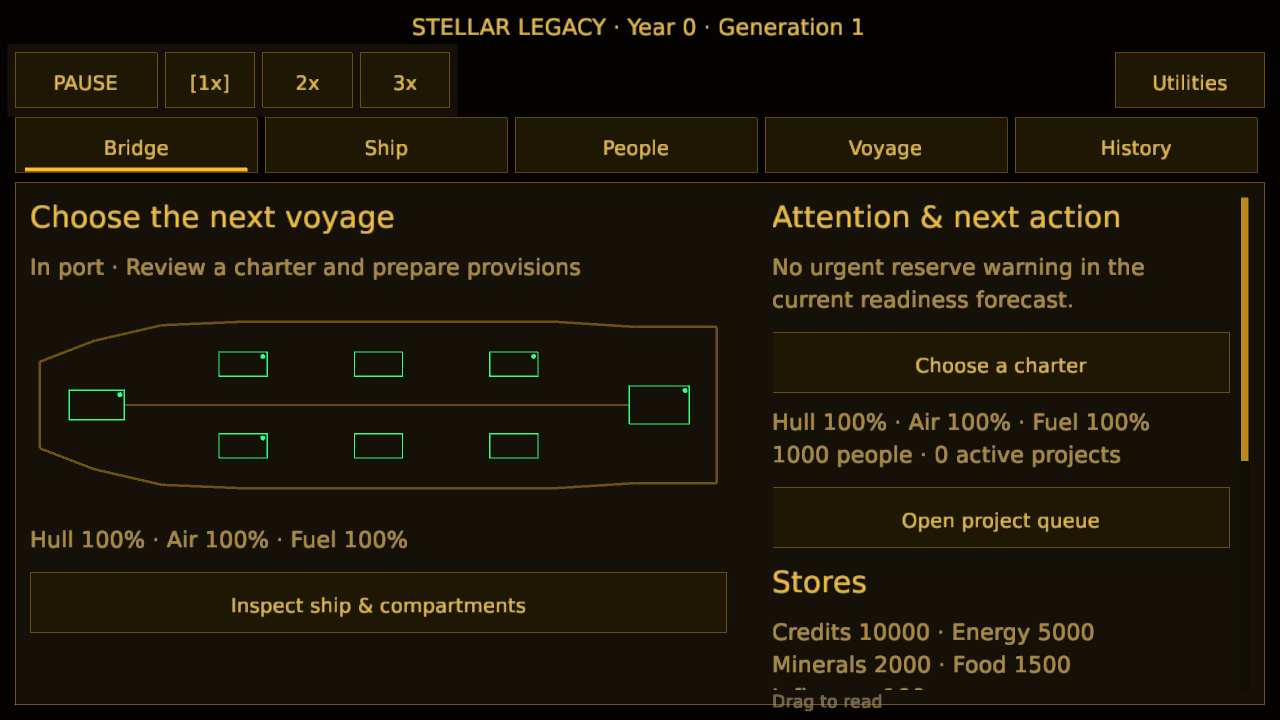
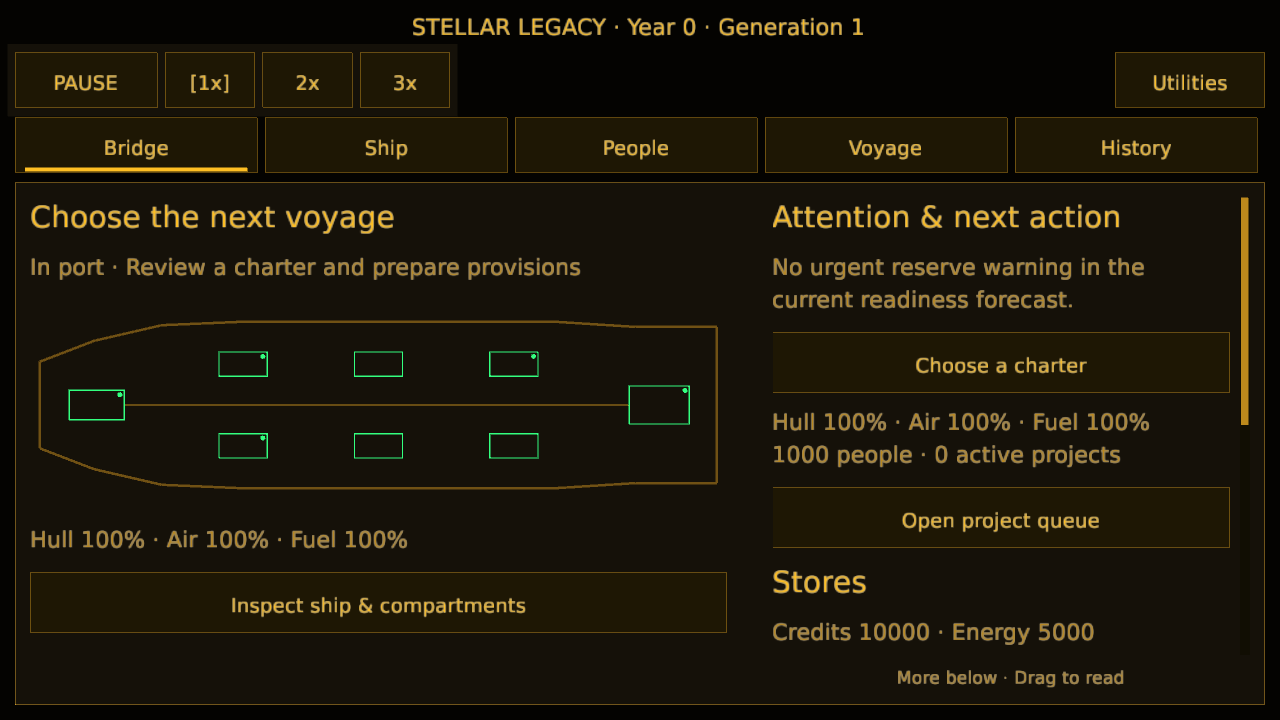
The Custodian gives every report room to breathe (responsive reading layout)
Scrolling reports crowded their final lines against an external reading hint. Reserve an internal footer, distinguish the end of a section, and render complete prose lines. Section button groups now measure their labels and reflow instead of relying on fixed short rows at enlarged text sizes.

Two geometry tests passed, as did the normal publisher and packaged Windows/browser smoke checks. Inspected phone, enlarged-text, end-of-report, and scaled-desktop captures. Enlarged phone navigation still splits destination words; that is the next focused shell improvement.

Changed region(s): [[0.5938, 0.8861, 0.875, 1.0], [0.9688, 0.5806, 1.0, 0.6417]]

diff --git a/src/ui/mobile/form.rs b/src/ui/mobile/form.rs
@@ -1,6 +1,8 @@
 //! Vertical game document: full prose and explicit intents, backed by toolkit scrolling.
 use super::*;
 use macroquad_toolkit::ui::{wrap_text, ScrollArea};
+mod layout;
+use layout::GroupLayout;
 
 enum Item<A> {
     Text(String, bool),
@@ -133,8 +135,12 @@ impl<A> Form<A> {
                         .max(48.0)
                         + 12.0
                 }
-                Item::Sections(items) => items.len().div_ceil(2) as f32 * 60.0,
-                Item::Actions(..) => 60.0,
+                Item::Sections(items) => {
+                    group_layout(items.iter().map(|(label, _)| label.as_str()), width, 2).height()
+                }
+                Item::Actions(items, _) => {
+                    group_layout(items.iter().map(|(label, _)| label.as_str()), width, 3).height()
+                }
                 Item::Portrait(_) => 100.0,
                 Item::Ship | Item::Vessel(_) => 180.0_f32.min(view.h),
                 Item::Art(_) => ((width * 9.0 / 16.0).min(260.0) + 12.0).min(view.h),
@@ -142,6 +148,10 @@ impl<A> Form<A> {
             })
             .collect();
         let total = sizes.iter().sum();
+        // Keep the reading hint inside its own footer instead of painting it
+        // against the last line of the document or outside the owning panel.
+        let outer = view;
+        let view = layout::reading_view(outer, total, text_scale);
         let mut scroll = scroll_cell.get();
         if overlay || !state.overlay_active.get() {
             scroll.update_at(view, total, pointer.position);
@@ -168,7 +178,7 @@ impl<A> Form<A> {
                         let stride = if title { 32.0 } else { 26.0 } * text_scale;
                         for (i, line) in wrap_text(&text, width, size).iter().enumerate() {
                             let y = rect.y + i as f32 * stride;
-                            if y + stride > view.y && y < view.bottom() {
+                            if y >= view.y && y + stride <= view.bottom() {
                                 draw_ui_text_ex(
                                     line,
                                     rect.x,
@@ -202,13 +212,10 @@ impl<A> Form<A> {
                         }
                     }
                     Item::Sections(items) => {
+                        let grid =
+                            group_layout(items.iter().map(|(label, _)| label.as_str()), rect.w, 2);
                         for (i, (label, section)) in items.into_iter().enumerate() {
-                            let r = Rect::new(
-                                rect.x + (i % 2) as f32 * (rect.w + 12.0) / 2.0,
-                                rect.y + (i / 2) as f32 * 60.0,
-                                (rect.w - 12.0) / 2.0,
-                                48.0,
-                            );
+                            let r = grid.cell(rect, i);
                             if nav_button(r, &label, tap) {
                                 *state.mobile_section.borrow_mut() = section;
                             } else if state.mobile_section.borrow().as_str() == section {
@@ -217,11 +224,10 @@ impl<A> Form<A> {
                         }
                     }
                     Item::Actions(items, selected) => {
-                        let count = items.len() as f32;
-                        let width = (rect.w - 12.0 * (count - 1.0)) / count;
+                        let grid =
+                            group_layout(items.iter().map(|(label, _)| label.as_str()), rect.w, 3);
                         for (i, (label, action)) in items.into_iter().enumerate() {
-                            let r =
-                                Rect::new(rect.x + i as f32 * (width + 12.0), rect.y, width, 48.0);
+                            let r = grid.cell(rect, i);
                             if nav_button(r, &label, tap) {
                                 actions.push(action);
                             }
@@ -303,14 +309,41 @@ impl<A> Form<A> {
         );
         scroll_cell.set(scroll);
         if total > view.h {
-            draw_ui_text_ex(
-                "Drag to read",
+            draw_text_centered_in_box_ex(
+                if scroll.offset() + view.h >= total - 1.0 {
+                    "End of section · Drag to go back"
+                } else {
+                    "More below · Drag to read"
+                },
                 view.x,
-                view.bottom() + 14.0,
-                TextStyle::new(14.0, term::faint()).params(),
+                view.bottom() + 4.0,
+                view.w,
+                outer.bottom() - view.bottom() - 4.0,
+                TextStyle::new(14.0, term::dim()),
             );
         }
     }
+}
+
+fn group_layout<'a>(
+    labels: impl Iterator<Item = &'a str>,
+    width: f32,
+    max_columns: usize,
+) -> GroupLayout {
+    let labels: Vec<_> = labels.collect();
+    let widest = labels
+        .iter()
+        .map(|label| measure_text_size(label, TextStyle::new(16.0, term::primary())).width)
+        .fold(0.0, f32::max);
+    let mut grid = GroupLayout::new(width, labels.len(), max_columns, widest);
+    let lines = labels
+        .iter()
+        .map(|label| wrap_text(label, grid.cell_width - 24.0, 16.0).len())
+        .max()
+        .unwrap_or(1);
+    grid.row_height =
+        (lines as f32 * 26.0 * macroquad_toolkit::ui::ui_text_scale() + 20.0).max(48.0);
+    grid
 }
 
 fn draw_vessel(rect: Rect, ship: &ship_schematic::ShipSchematic) {

diff --git a/src/ui/mobile/form/layout.rs b/src/ui/mobile/form/layout.rs
@@ -1,0 +1,54 @@
+//! Geometry for the game's flowing section controls and reading footer.
+use macroquad::prelude::Rect;
+
+pub(super) struct GroupLayout {
+    pub columns: usize,
+    pub count: usize,
+    pub cell_width: f32,
+    pub row_height: f32,
+}
+
+impl GroupLayout {
+    pub fn new(width: f32, count: usize, max_columns: usize, label_width: f32) -> Self {
+        let preferred = (label_width + 24.0).max(80.0);
+        let columns = (((width + 12.0) / (preferred + 12.0)).floor() as usize)
+            .max(1)
+            .min(max_columns.max(1))
+            .min(count.max(1));
+        Self {
+            columns,
+            count,
+            cell_width: (width - 12.0 * (columns - 1) as f32) / columns as f32,
+            row_height: 48.0,
+        }
+    }
+
+    pub fn height(&self) -> f32 {
+        self.count.div_ceil(self.columns) as f32 * (self.row_height + 12.0)
+    }
+
+    pub fn cell(&self, area: Rect, index: usize) -> Rect {
+        Rect::new(
+            area.x + (index % self.columns) as f32 * (self.cell_width + 12.0),
+            area.y + (index / self.columns) as f32 * (self.row_height + 12.0),
+            self.cell_width,
+            self.row_height,
+        )
+    }
+}
+
+pub(super) fn reading_view(area: Rect, content_height: f32, text_scale: f32) -> Rect {
+    if content_height <= area.h {
+        area
+    } else {
+        Rect::new(
+            area.x,
+            area.y,
+            area.w,
+            (area.h - 28.0 * text_scale).max(1.0),
+        )
+    }
+}
+
+#[cfg(test)]
+mod tests;

diff --git a/src/ui/mobile/form/layout/tests.rs b/src/ui/mobile/form/layout/tests.rs
@@ -1,0 +1,35 @@
+use super::*;
+
+#[test]
+fn long_section_labels_reflow_without_losing_targets() {
+    for width in [155.0, 350.0, 720.0] {
+        for label_width in [80.0, 140.0, 210.0] {
+            let grid = GroupLayout::new(width, 4, 2, label_width);
+            let area = Rect::new(12.0, 172.0, width, grid.height());
+            for index in 0..4 {
+                let cell = grid.cell(area, index);
+                assert!(cell.w >= 44.0 && cell.h >= 44.0);
+                assert!(cell.x >= area.x && cell.y >= area.y);
+                assert!(cell.x + cell.w <= area.x + area.w + 0.01);
+                assert!(cell.y + cell.h <= area.y + area.h);
+                for other in 0..index {
+                    assert!(!cell.overlaps(&grid.cell(area, other)));
+                }
+            }
+            if label_width + 24.0 > (width - 12.0) / 2.0 {
+                assert_eq!(grid.columns, 1);
+            }
+        }
+    }
+}
+
+#[test]
+fn reading_footer_reserves_scaled_space_only_for_overflow() {
+    let area = Rect::new(12.0, 172.0, 350.0, 584.0);
+    for scale in [0.75, 1.0, 1.5] {
+        assert_eq!(reading_view(area, 580.0, scale), area);
+        let view = reading_view(area, 900.0, scale);
+        assert_eq!(view.h + 28.0 * scale, area.h);
+        assert_eq!(view.y, area.y);
+    }
+}

diff --git a/src/game/capture_scenes/display.rs b/src/game/capture_scenes/display.rs
@@ -1,6 +1,18 @@
 use crate::settings::{DisplaySettings, Phosphor};
 
 pub(super) fn prepare<'a>(scene: &'a str, display: &mut DisplaySettings) -> &'a str {
+    // Compose text and UI preferences, for example
+    // people_officers_scale_125_text_150.
+    let scene = if let Some((base, percent)) = scene.rsplit_once("_text_") {
+        if let Ok(percent) = percent.parse::<f32>() {
+            if percent.is_finite() {
+                display.text_scale = (percent / 100.0).clamp(0.75, 1.5);
+            }
+        }
+        base
+    } else {
+        scene
+    };
     if let Some((scene, percent)) = scene.rsplit_once("_scale_") {
         if let Ok(percent) = percent.parse::<f32>() {
             display.ui_scale = macroquad_toolkit::ui::sanitize_ui_scale(percent / 100.0);

diff --git a/gdd.md b/gdd.md
@@ -268,6 +268,8 @@ Pause/Resume and speed controls remain reachable above blocking decisions.
 Responsive and phone navigation underline the active destination and section;
 phone speed controls underline the current running speed. Touch presses visibly
 light navigation targets, and Drydock/Market share a compact section row.
+Section rows reflow to fit enlarged labels. Scrolling documents reserve a footer
+for a reading hint that distinguishes more content from the end of the section.
 Council choices select a response before explicit Commit; full consequences scroll.
 
 Amber is the default color scheme, with Green and Slate available. Scanlines and
